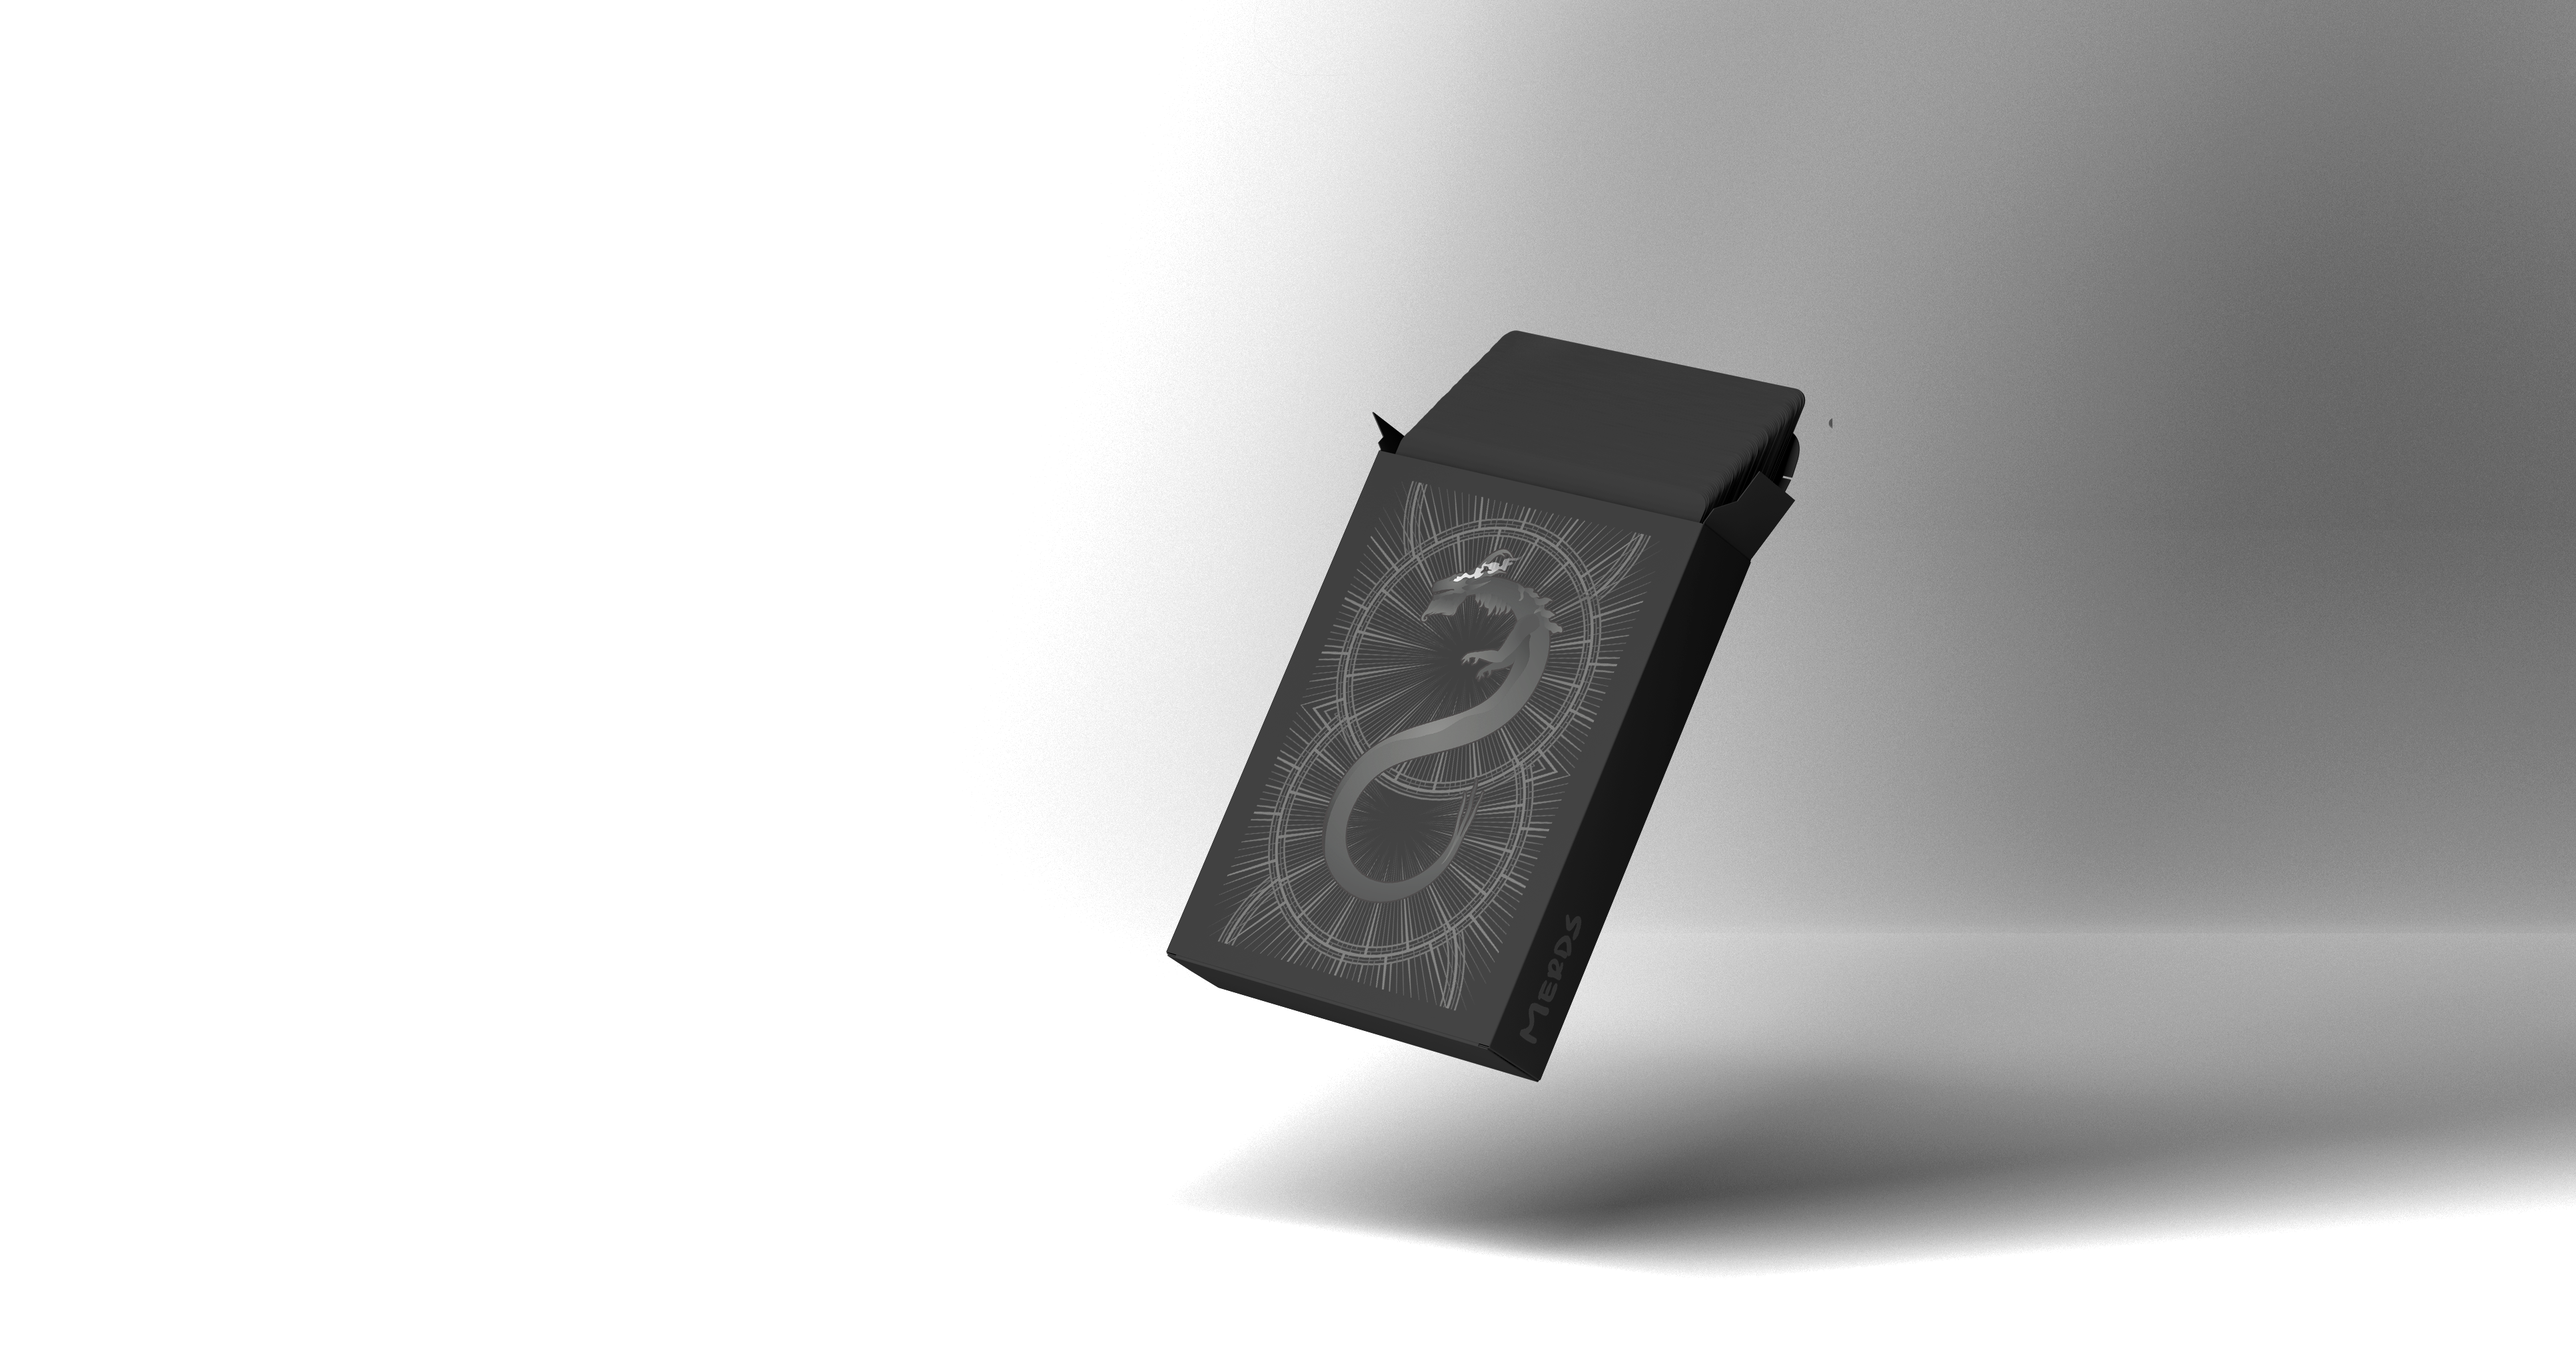
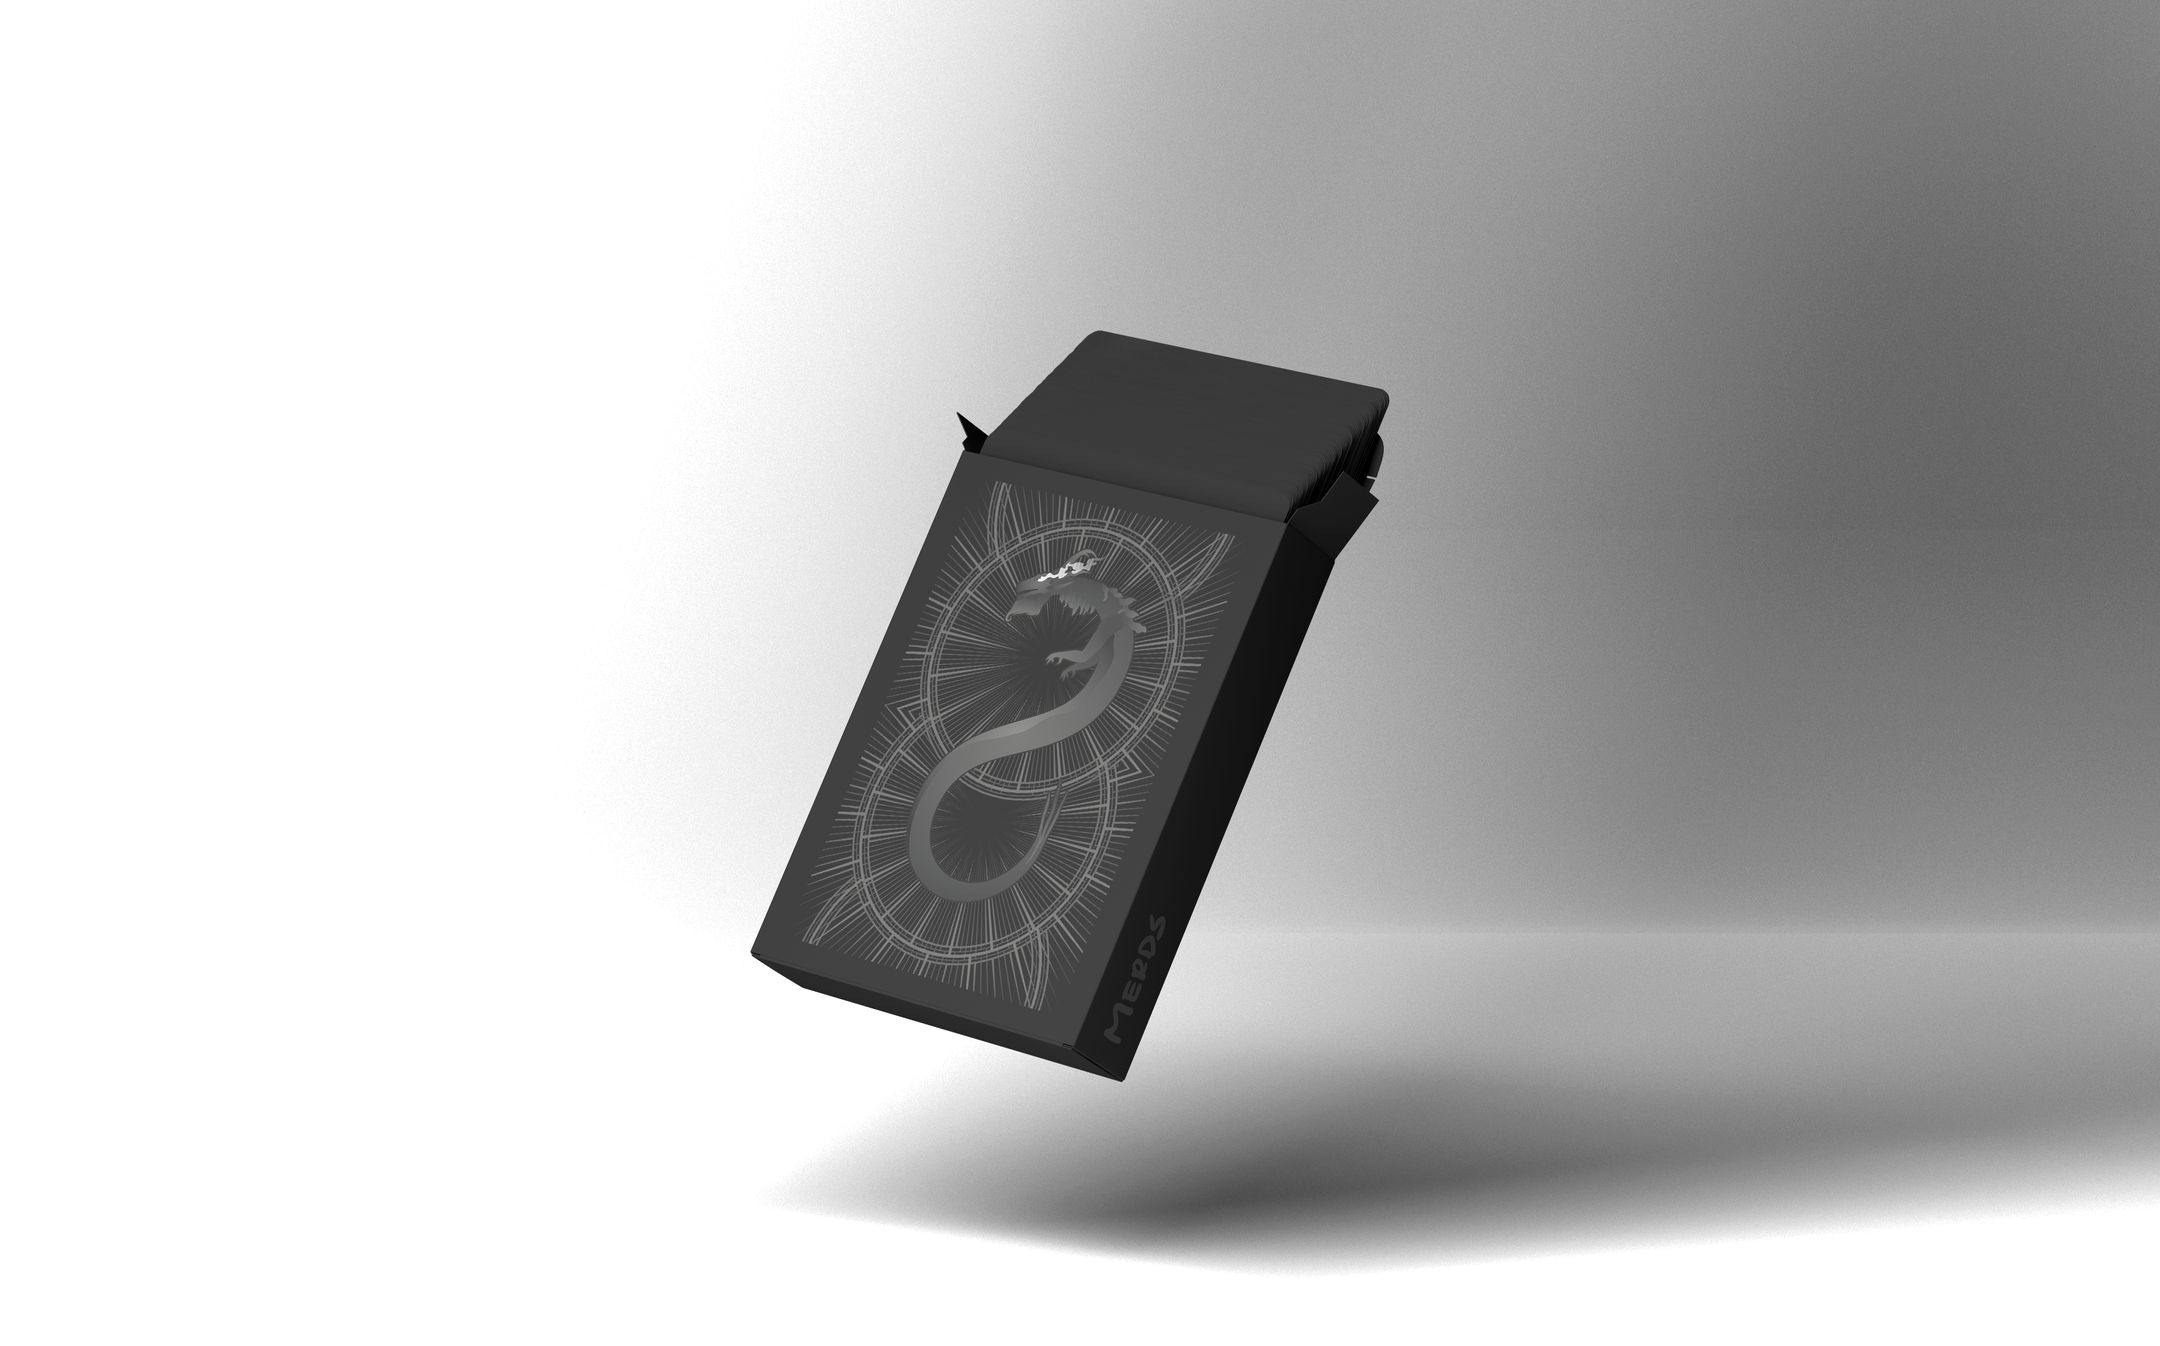
Fixed header bg on all devices

Changed region(s): [[0.3427, 0.0, 0.81, 0.9664]]

diff --git a/css/app.css b/css/app.css
@@ -1,2 +1,2 @@
-header{height:100vh;background:url(../images/deck-packaging.png);background-size:cover;background-position:43% 10%}main .cards-wrapper{margin:40px 20px;display:grid;grid-template-columns:repeat(4, 1fr);grid-gap:10px}@media (min-width: 768px){main .cards-wrapper{margin:40px 40px;grid-template-columns:repeat(13, 1fr)}}@media (min-width: 1200px){main .cards-wrapper{grid-template-columns:repeat(13, 1fr);grid-gap:20px}}main .cards-wrapper .single-card{background:radial-gradient(circle, rgba(255,255,255,0.1) 3%, rgba(255,255,255,0));position:relative;border-radius:5%;transform:perspective(750px);transition:0.1s ease}main .cards-wrapper .single-card::after{content:'';position:absolute;left:0;top:0;width:100%;height:100%;border-radius:5%;box-shadow:0 30px 60px -8px rgba(0,0,0,0.5),0 18px 36px -10px rgba(0,0,0,0.4),0 -12px 36px -6px rgba(0,0,0,0.2);transition:.4s ease;opacity:.3}main .cards-wrapper .card-hover{transition-duration:.1s}main .cards-wrapper .card-hover::after{opacity:.8}*{margin:0;padding:0;font-family:'Montserrat', sans-serif;color:#fff !important}h1,h2,h3{text-align:center}a,i,p{margin:0}p{text-align:justify;text-justify:inter-word}ul{list-style:none;margin:0}ol{margin-bottom:0}body{background:#222222}
+header{height:70vh;background:url(../images/deck-packaging.png);background-repeat:no-repeat;background-size:contain;background-position:top;background-size:800px}@media (min-width: 768px){header{background-size:contain;background-position:top right}}@media (min-width: 992px){header{height:80vh}}@media (min-width: 1200px){header{height:100vh}}main .cards-wrapper{margin:40px 20px;display:grid;grid-template-columns:repeat(4, 1fr);grid-gap:10px}@media (min-width: 768px){main .cards-wrapper{margin:40px 40px;grid-template-columns:repeat(13, 1fr)}}@media (min-width: 1200px){main .cards-wrapper{grid-template-columns:repeat(13, 1fr);grid-gap:20px}}main .cards-wrapper .single-card{background:radial-gradient(circle, rgba(255,255,255,0.1) 3%, rgba(255,255,255,0));position:relative;border-radius:5%;transform:perspective(750px);transition:0.1s ease}main .cards-wrapper .single-card::after{content:'';position:absolute;left:0;top:0;width:100%;height:100%;border-radius:5%;box-shadow:0 30px 60px -8px rgba(0,0,0,0.5),0 18px 36px -10px rgba(0,0,0,0.4),0 -12px 36px -6px rgba(0,0,0,0.2);transition:.4s ease;opacity:.3}main .cards-wrapper .card-hover{transition-duration:.1s}main .cards-wrapper .card-hover::after{opacity:.8}*{margin:0;padding:0;font-family:'Montserrat', sans-serif;color:#fff !important}h1,h2,h3{text-align:center}a,i,p{margin:0}p{text-align:justify;text-justify:inter-word}ul{list-style:none;margin:0}ol{margin-bottom:0}body{background:#222222}
 /*# sourceMappingURL=app.css.map */

diff --git a/scss/_header.scss b/scss/_header.scss
@@ -1,6 +1,18 @@
 header {
-	height: 100vh;
-	background: url(../images/deck-packaging.png);
-	background-size: cover;
-	background-position: 43% 10%;
+	height: 70vh;
+    background: url(../images/deck-packaging.png);
+    background-repeat: no-repeat;
+    background-size: contain;
+    background-position: top;
+    background-size: 800px;
+    @include mediumScreen {
+	    background-size: contain;
+	    background-position: top right;
+	}
+	@include largeScreen {
+		height: 80vh;
+	}
+	@include xlargeScreen {
+		height: 100vh;
+	}
 }
